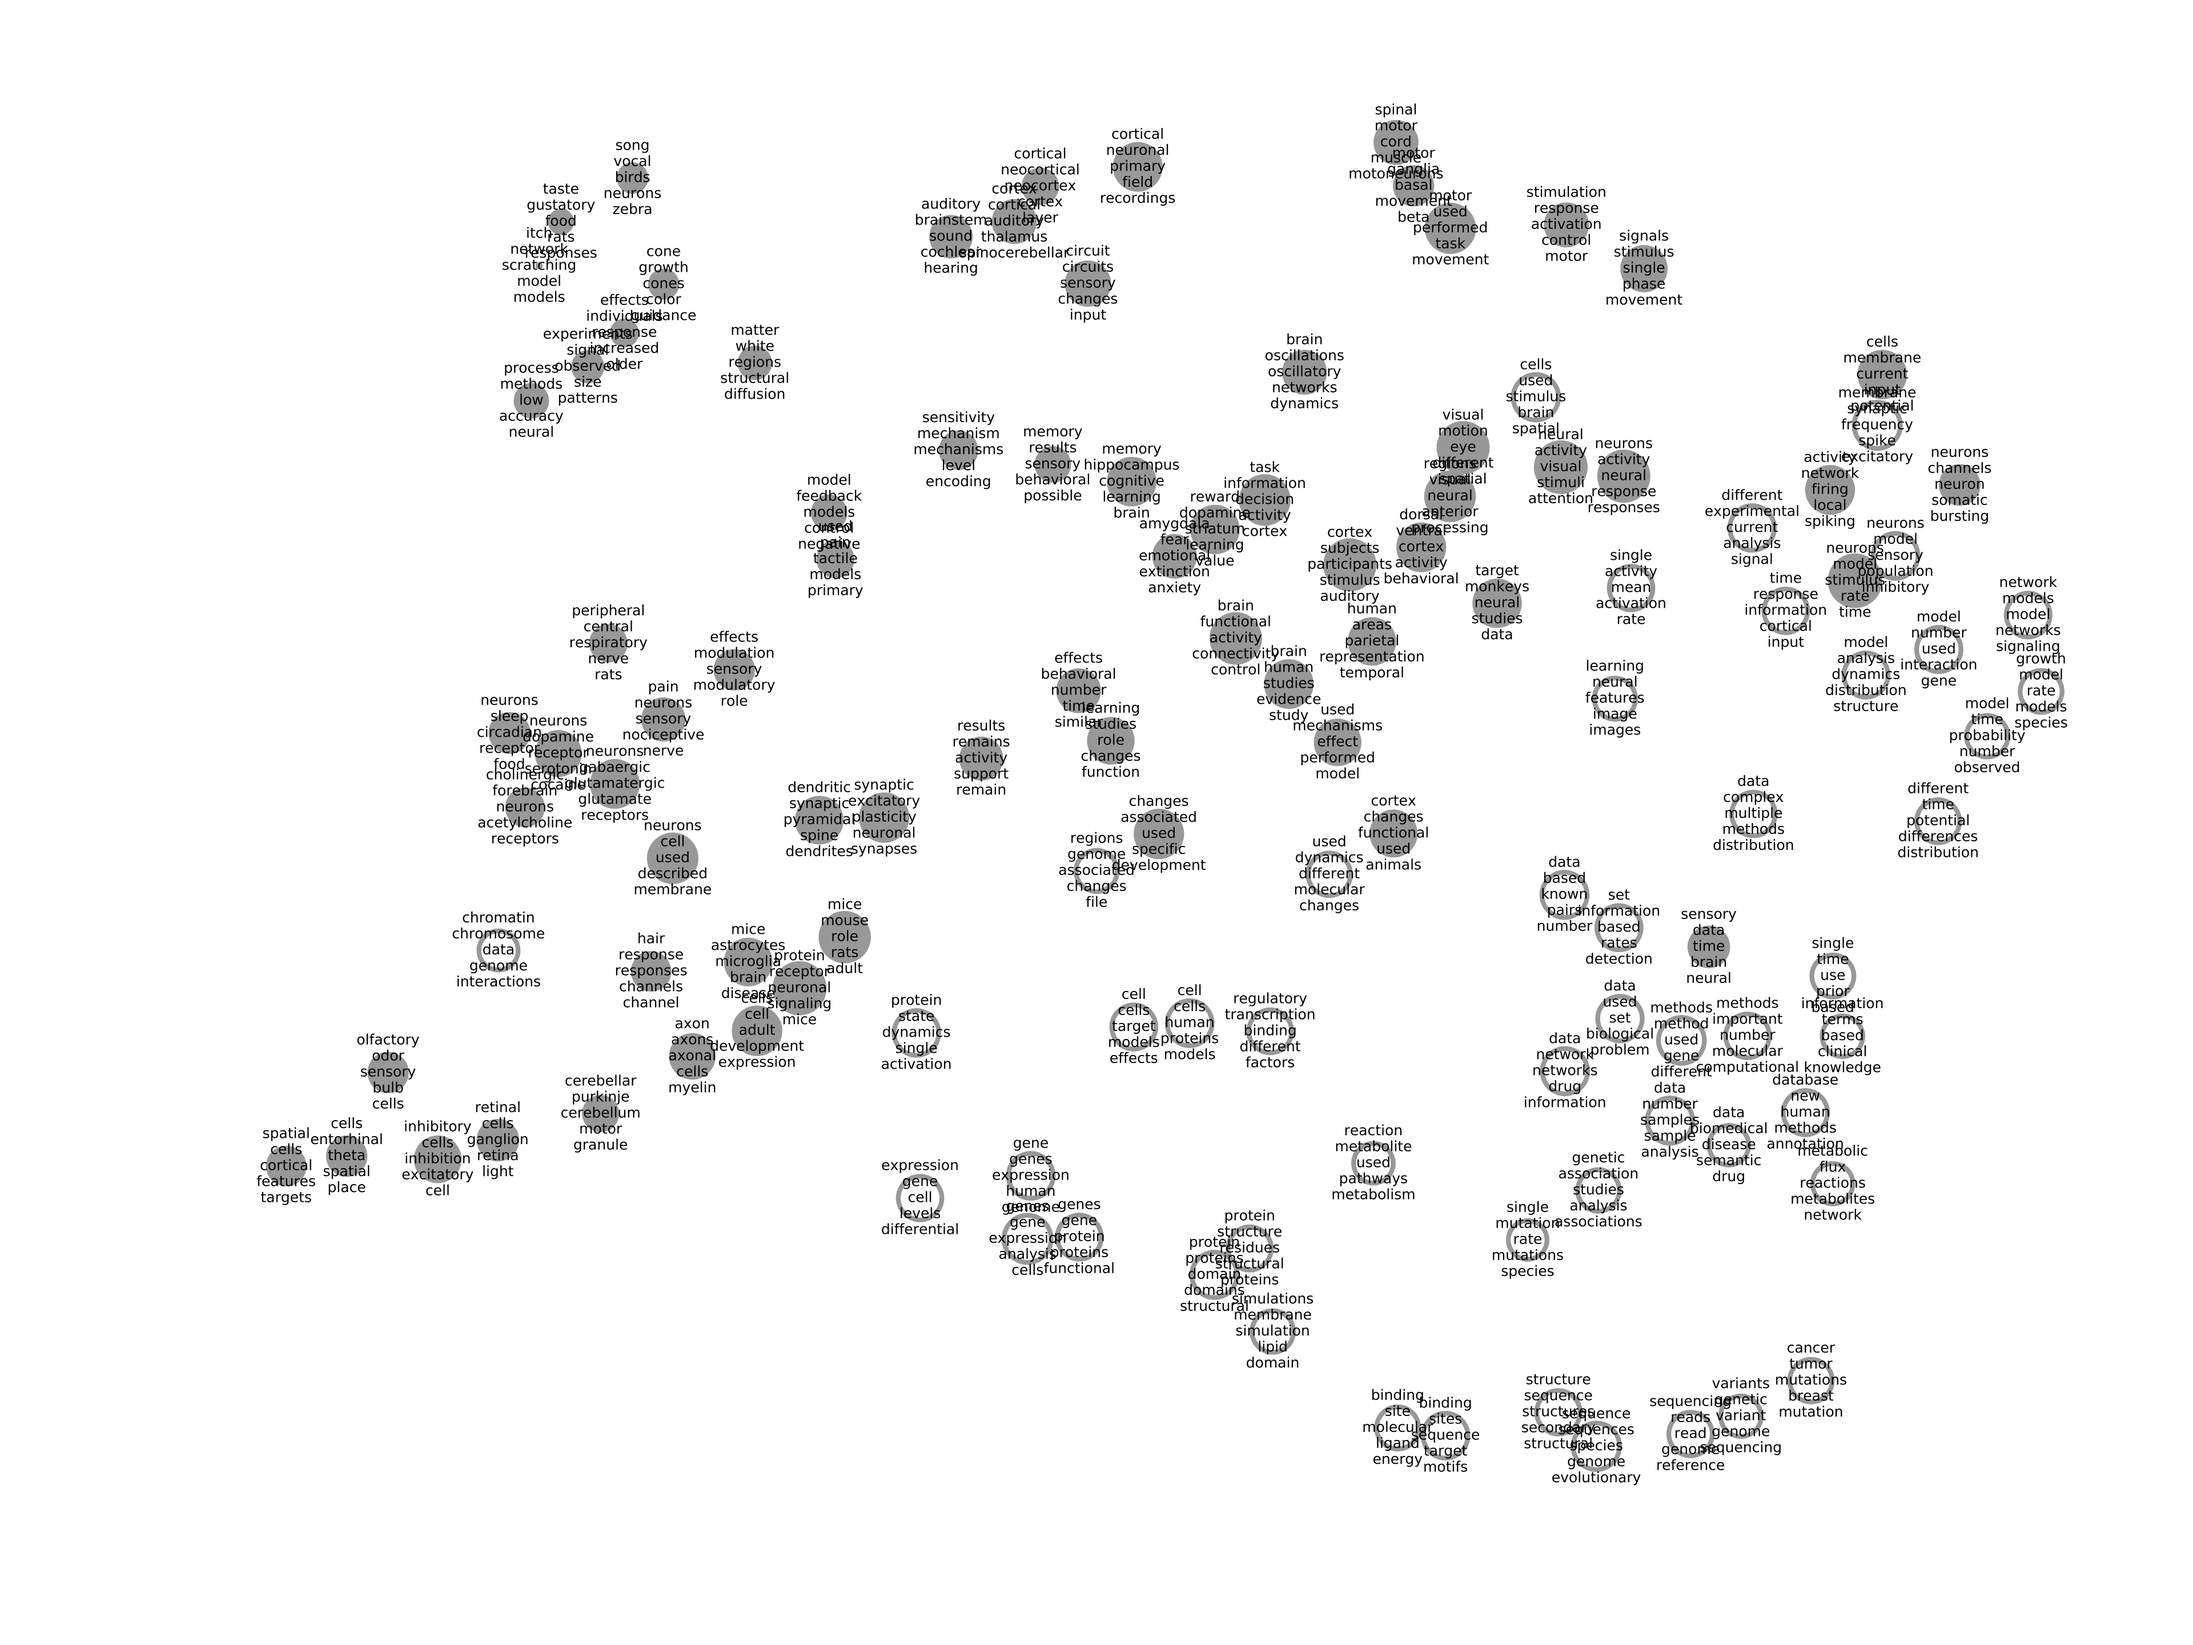
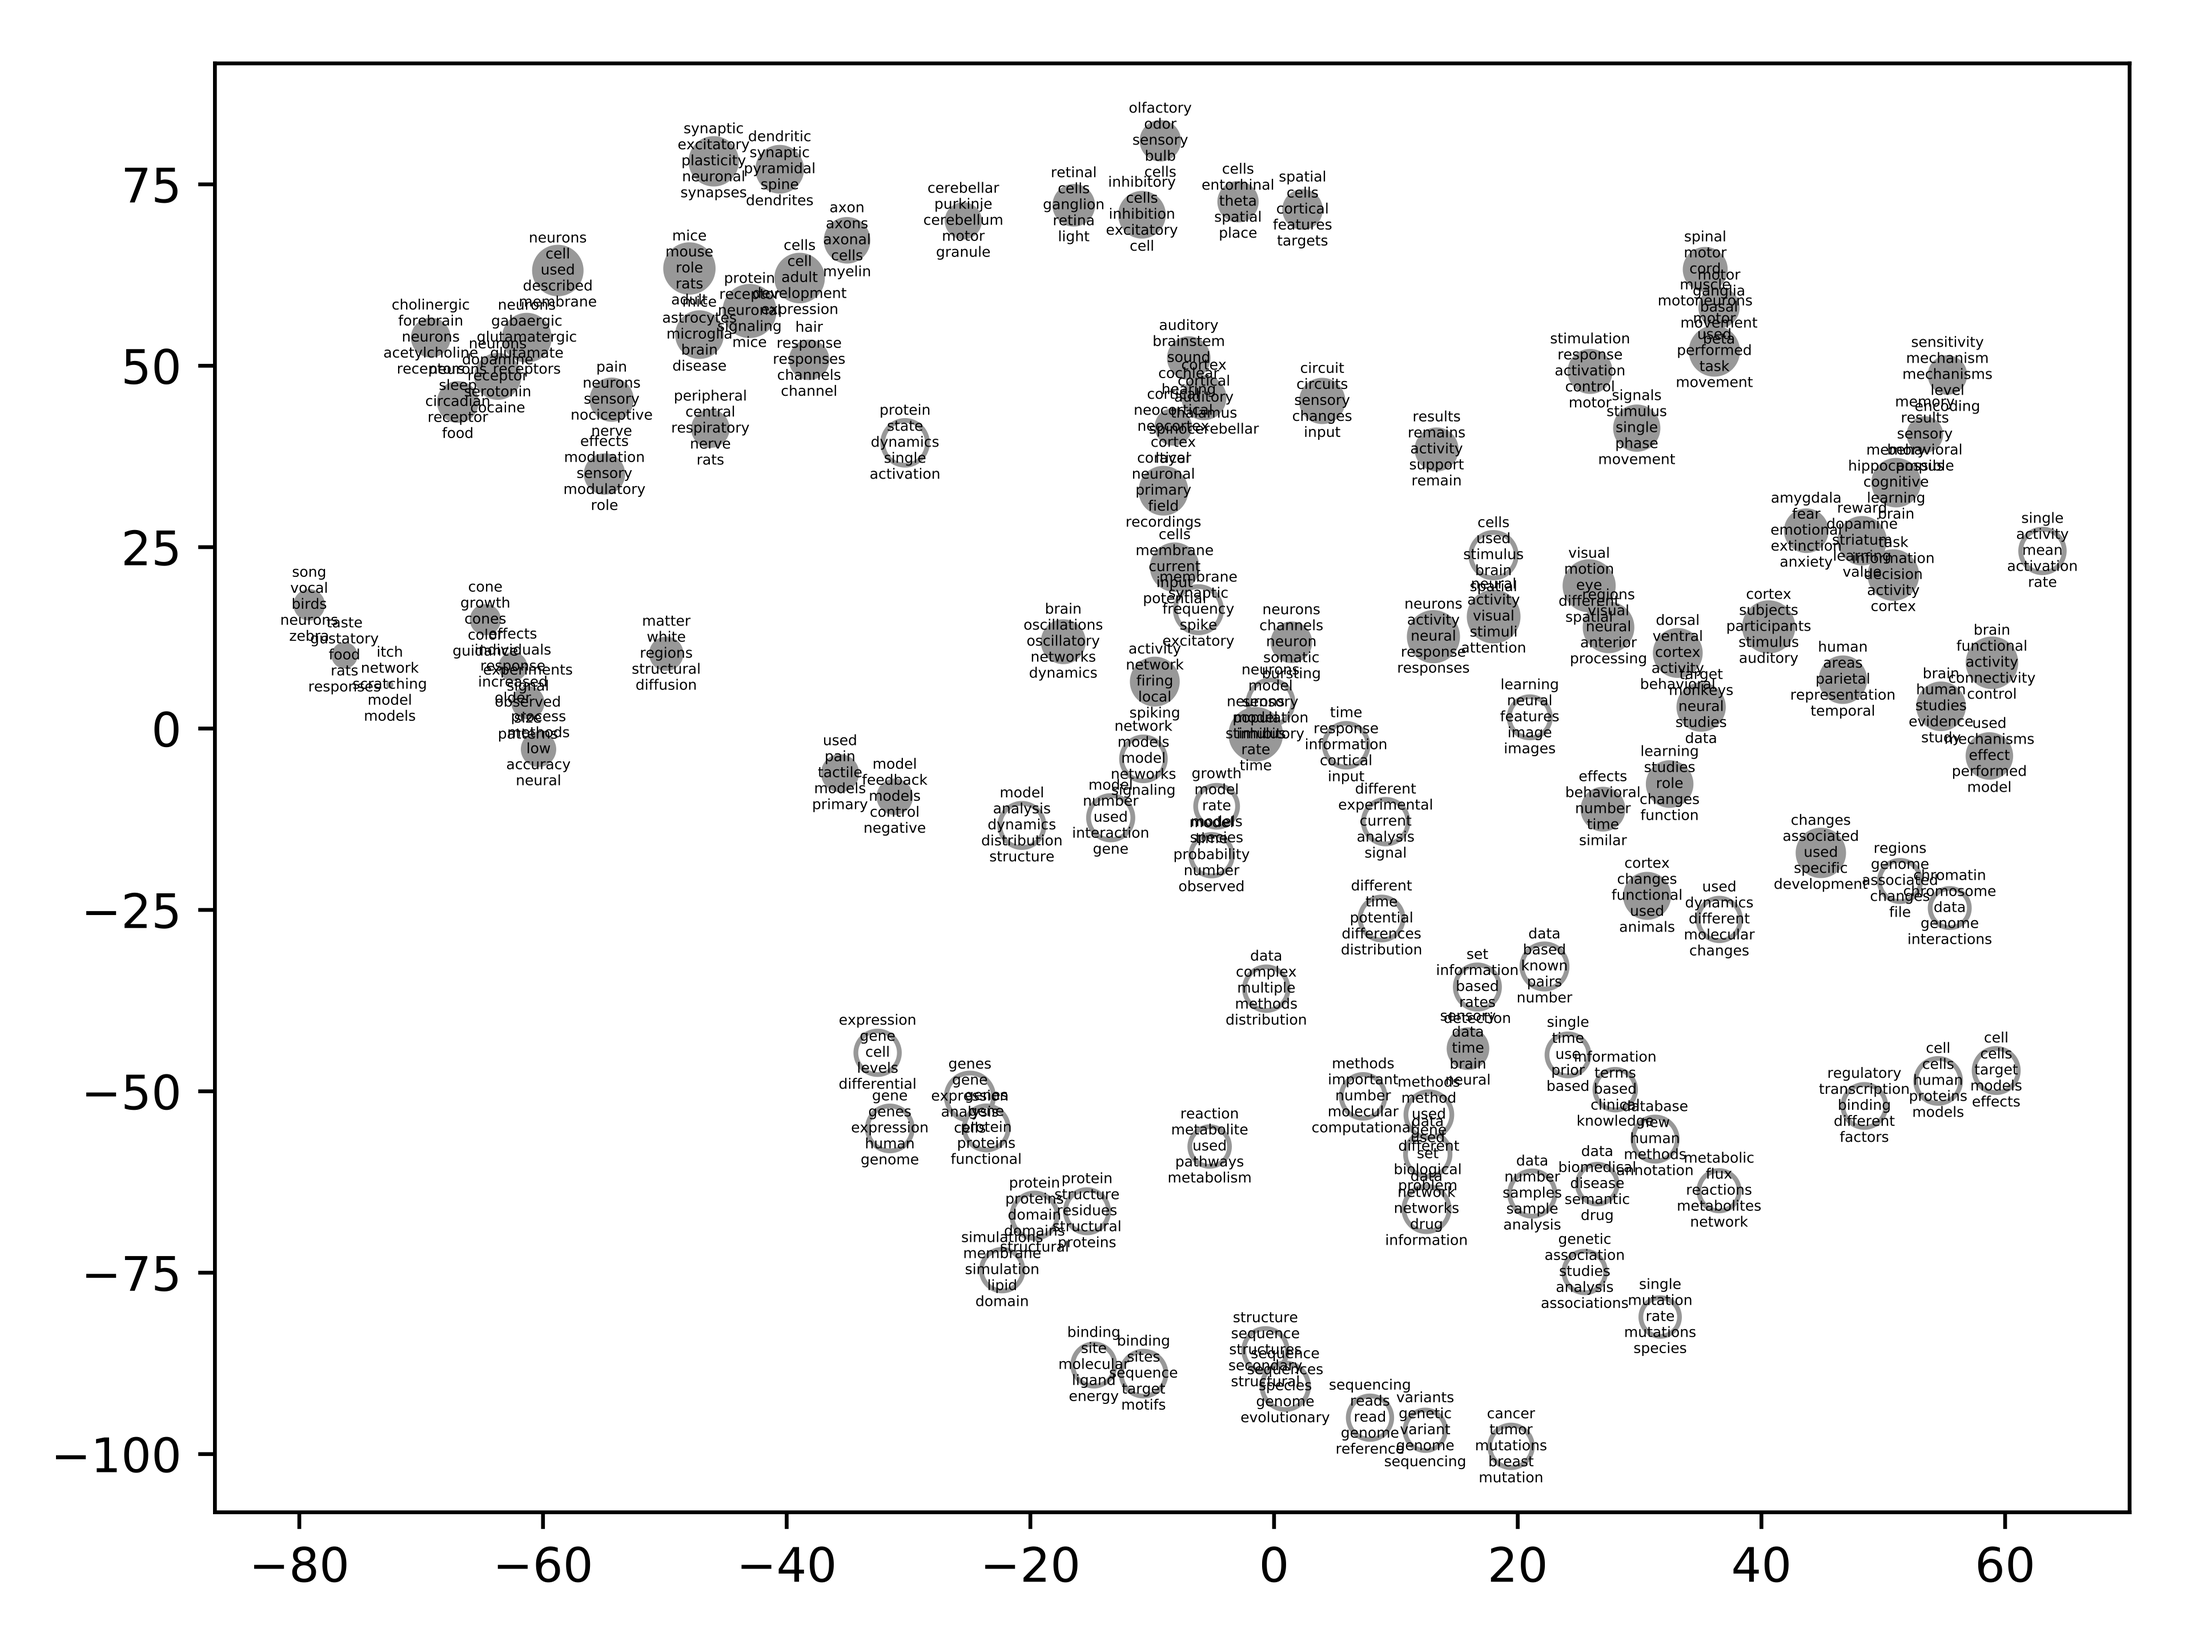
add codes

diff --git a/tsne.py b/tsne.py
@@ -292,8 +292,8 @@ def single_domain(folder, num_iterations):
         plt.text(Y[i, 0], Y[i, 1], topic_summaries[i], horizontalalignment='center',
                  verticalalignment='center', fontsize=3)
 
-    ax.set_axis_off()
-    ax.grid(False)
+    #ax.set_axis_off()
+    #ax.grid(False)
     fig.tight_layout()
     plt.show()
 
@@ -353,8 +353,8 @@ def cross_domain(folder1, folder2, num_iterations):
         plt.text(Y[i, 0], Y[i, 1], topic_summaries[i], horizontalalignment='center',
                  verticalalignment='center', fontsize=3)
 
-    ax.set_axis_off()
-    ax.grid(False)
+    #ax.set_axis_off()
+    #ax.grid(False)
     fig.tight_layout()
     plt.show()
 

diff --git a/README.md b/README.md
@@ -284,14 +284,37 @@ python visualization.py --data_source bio --type trend --model_folder bio_base_m
 <img src='imgs/topic-44.png' width="600px"/>
 </p>
 
+- visualize the trend of tools or datasets been investigated by researchers for a particular research topic over the last ten years. 
+To visualize the trend of tools or datasets over time, we need to run the analysis command the trend based on our pre-trained model first by using the command below. 
+Note, we have already analyzed the trend for each domain (bio, neuro). So, you don't need to run the analysis command. 
+```
+python visualization.py --data_source bio --type trend_analysis --model_folder bio_base_model --trend_type tool
+```
+After finishing the analysis algorithm, you can plot the tool or dataset trend for each topic for a particular domain, by using the command below. 
+```
+python visualization.py --data_source bio --type trend --model_folder bio_base_model --trend_type tool --topic_id 38
+```
+If anything goes well, there will be a trend figure popped up that is similar to the figure below, and this figure will be also saved in the relevant location (\output\bio_base_model\tool_trend)
+<p align="center">
+<img src='imgs/topic-38.png' width="600px"/>
+</p>
+Feel free to explore other topics, for example, the topic_id 44 is relevant deep learning for bioinformatics.
+
+```
+python visualization.py --data_source bio --type trend --model_folder bio_base_model --trend_type tool --topic_id 44
+```
+<p align="center">
+<img src='imgs/topic-44.png' width="600px"/>
+</p>
+
 - visualize the research topics in 2D-space for finding similar topics among scientific communities, which could be applied to cross-domain recommendations, or cross-domain knowledge sharing.
-We use the tSNE algorithm to mapping high dimensional dataset (topics distribution) into low dimensional space (such as 2D space), which provides scientists to find similar topics for knowledge sharing or collaboration.
-Our algorithm can be applied to single domain demonstration or cross-domain demonstration. For example, you can map bioinformatics topics into 2D space by
+We use the tSNE algorithm to mapping high dimensional datasets (topics distribution) into low dimensional space (such as 2D space), which provides scientists to find similar topics for knowledge sharing or collaboration.
+Our algorithm can be applied to a single domain demonstration or cross-domain demonstration. For example, you can map bioinformatics topics into 2D space by
 using the command below,
 ```
-python tsne.py --type single --model_folder1 bio_base_model --num_iterations 1000
+python tsne.py --type single --model_folder1 bio_base_model --num_iterations 2000
 ```
-If anything goes well, there will be a figure popped up that is similar to the figure below, and this figure will be also saved in relevant location (\output\)
+If anything goes well, there will be a figure popped up that is similar to the figure below, and this figure will be also saved in the relevant location (\output\)
 
 <p align="center">
     <img src='imgs/tsne_embedding_single_domain_bio.png' width="600px"/>
@@ -299,12 +322,20 @@ If anything goes well, there will be a figure popped up that is similar to the f
 
 Or you can also explore neuro topics into 2D space by using this command,
 ```
-python tsne.py --type single --model_folder1 neuro_base_model --um_iterations 1000
+python tsne.py --type single --model_folder1 neuro_base_model --num_iterations 2000
 ```
 <p align="center">
     <img src='imgs/tsne_embedding_single_domain_neuro.png' width="600px"/>
 </p>
+Finally, you can also map topics from different into the same 2D space by using "cross" mode for cross domain demonstration
 
+```
+python tsne.py --type cross --model_folder2 bio_base_model --model_folder1 neuro_base_model --num_iterations 5000
+```
+<p align="center">
+    <img src='imgs/tsne_embedding_cross_domain.png' width="600px"/>
+</p>
+In the figure above, the lighter color belongs to one domain, and the darker color belongs to another domain. 
 
 ## Model APIs
 
